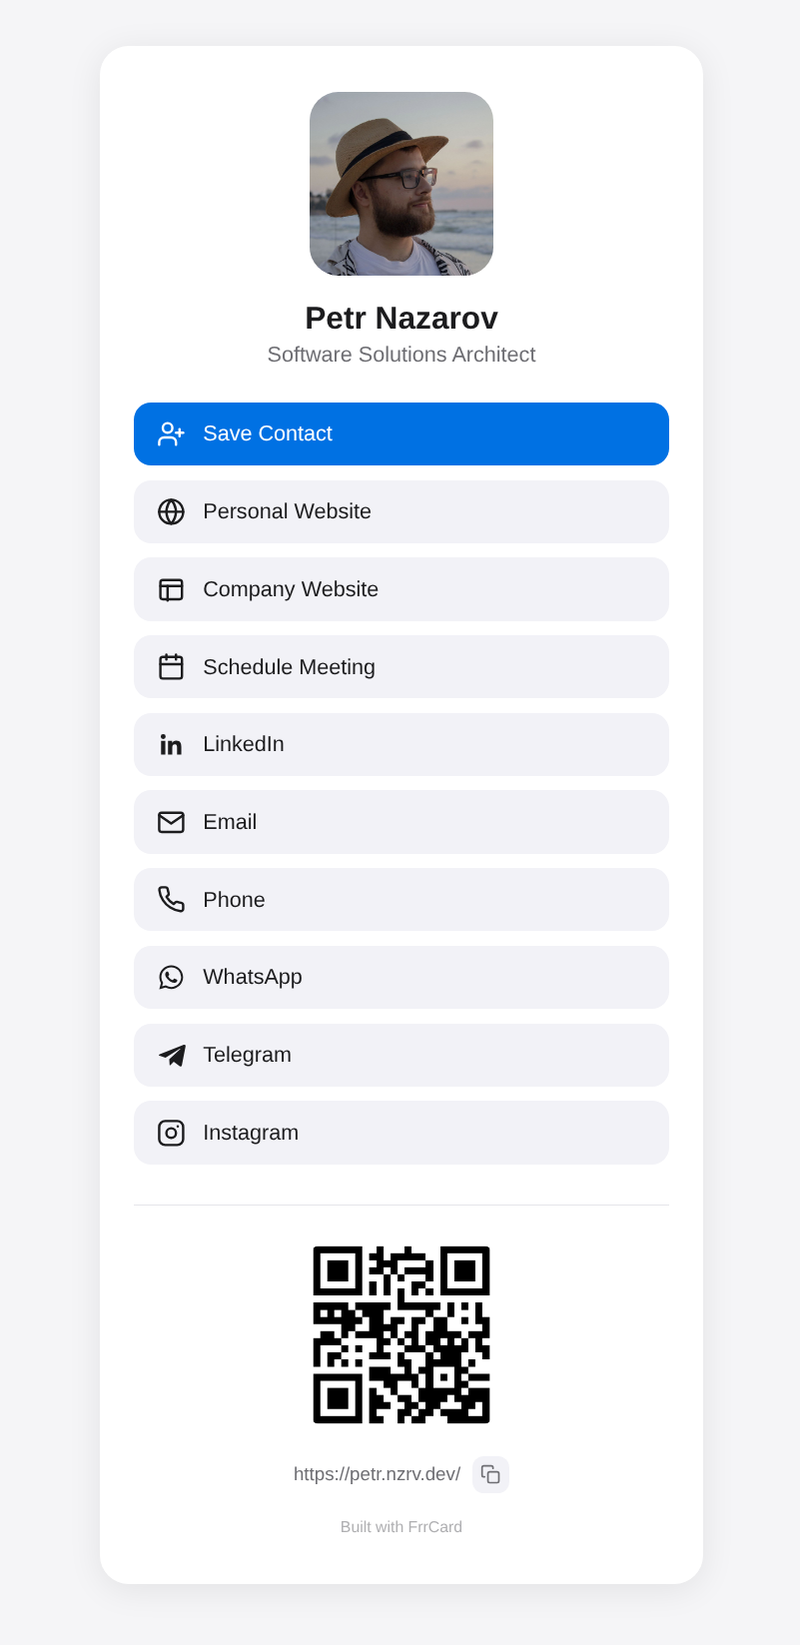
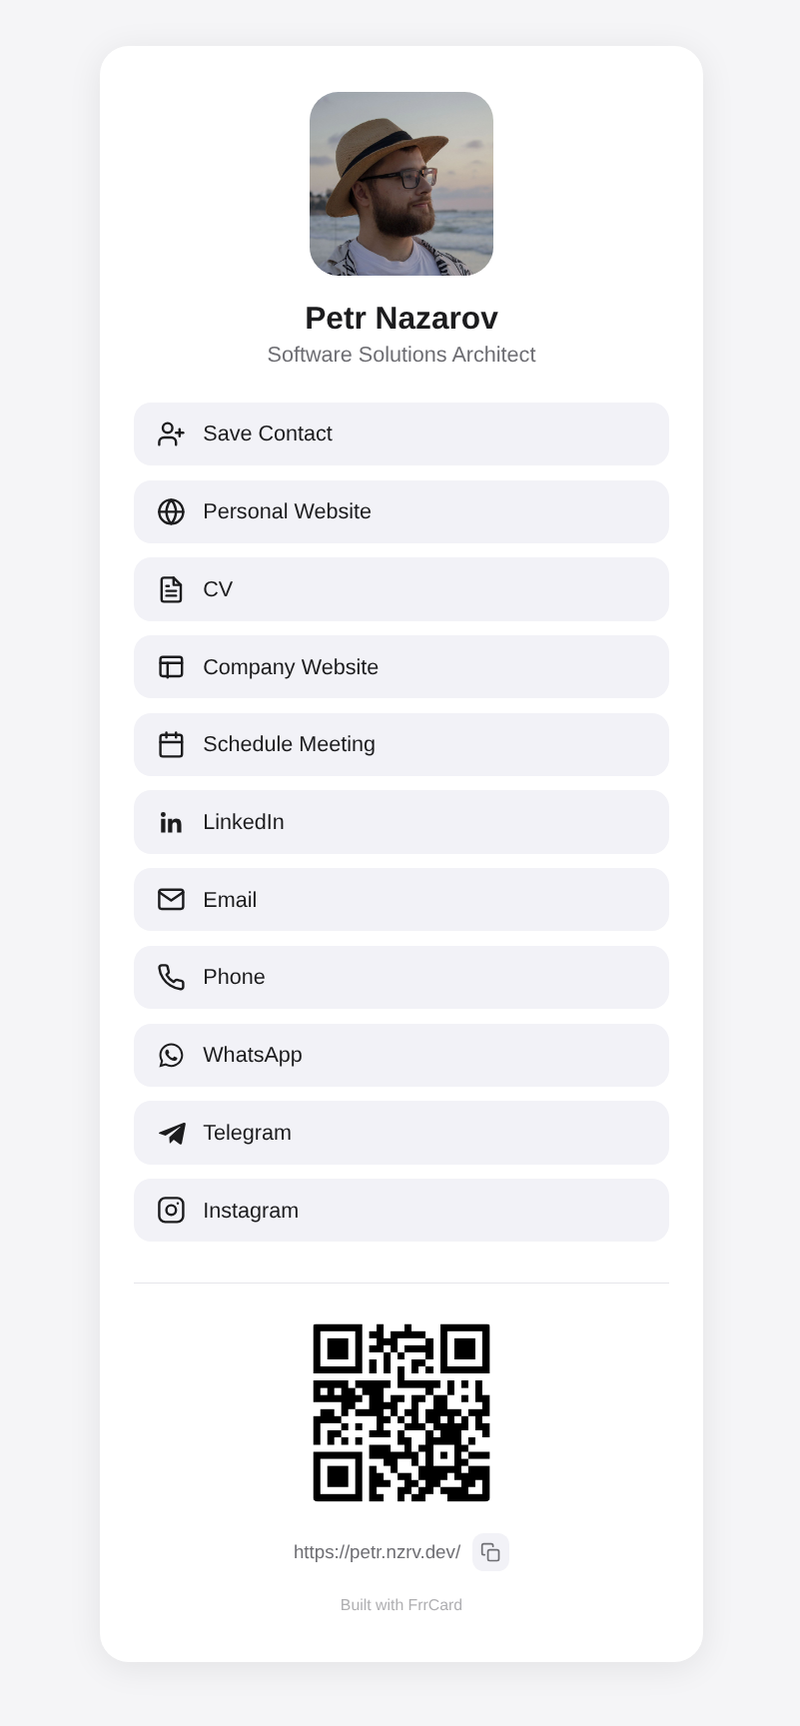
feat(cards): add a cv link type and drop the Save Contact accent
The cv type renders a document icon and becomes a labelled URL in the contact
file, like the other link types. Save Contact now looks like every other row
rather than a filled accent button, so the accent custom properties and the
.link-primary rules are gone with it.

Screenshots refreshed; data/petr.json is not tracked, so its own move to
nzrv.dev rides along only in the deployed output.

Changed region(s): [[0.1562, 0.062, 0.8438, 0.7131], [0.375, 0.7441, 0.625, 0.9301]]

diff --git a/build.js b/build.js
@@ -44,6 +44,13 @@ const ICONS = {
     external: true,
     vcard: (v) => ({ prop: 'URL;TYPE=WORK', value: v }),
   },
+  cv: {
+    label: 'CV',
+    svg: '<svg viewBox="0 0 24 24" fill="none" stroke="currentColor" stroke-width="2" stroke-linecap="round" stroke-linejoin="round"><path d="M14 2H6a2 2 0 0 0-2 2v16a2 2 0 0 0 2 2h12a2 2 0 0 0 2-2V8z"/><polyline points="14 2 14 8 20 8"/><line x1="16" y1="13" x2="8" y2="13"/><line x1="16" y1="17" x2="8" y2="17"/><polyline points="10 9 9 9 8 9"/></svg>',
+    href: (v) => v,
+    external: true,
+    vcard: (v) => ({ prop: 'URL', value: v }),
+  },
   schedule: {
     label: 'Schedule Meeting',
     svg: '<svg viewBox="0 0 24 24" fill="none" stroke="currentColor" stroke-width="2" stroke-linecap="round" stroke-linejoin="round"><rect x="3" y="4" width="18" height="18" rx="2"/><line x1="16" y1="2" x2="16" y2="6"/><line x1="8" y1="2" x2="8" y2="6"/><line x1="3" y1="10" x2="21" y2="10"/></svg>',
@@ -220,7 +227,7 @@ function render(template, data) {
   const qrTarget = data.qrTarget || canonicalUrl;
   const vcardHtml = data.vcard === false
     ? ''
-    : `      <a class="link link-primary" href="./${VCARD_FILE}" type="text/vcard">\n        ${VCARD_ICON}\n        ${escapeHtml(data.vcardLabel || VCARD_LABEL)}\n      </a>\n`;
+    : `      <a class="link" href="./${VCARD_FILE}" type="text/vcard">\n        ${VCARD_ICON}\n        ${escapeHtml(data.vcardLabel || VCARD_LABEL)}\n      </a>\n`;
 
   const replacements = {
     NAME: data.name,

diff --git a/template.html b/template.html
@@ -32,9 +32,6 @@
     --border: #e5e5ea;
     --link-bg: #f2f2f7;
     --link-bg-hover: #e5e5ea;
-    --accent: #0071e3;
-    --accent-hover: #0060c0;
-    --accent-text: #ffffff;
   }
   @media (prefers-color-scheme: dark) {
     :root {
@@ -45,9 +42,6 @@
       --border: #3a3a3c;
       --link-bg: #2c2c2e;
       --link-bg-hover: #3a3a3c;
-      --accent: #0a84ff;
-      --accent-hover: #3b9dff;
-      --accent-text: #ffffff;
     }
   }
 
@@ -119,16 +113,6 @@
   .link:active,
   .link:hover {
     background: var(--link-bg-hover);
-  }
-
-  .link-primary {
-    background: var(--accent);
-    color: var(--accent-text);
-  }
-
-  .link-primary:active,
-  .link-primary:hover {
-    background: var(--accent-hover);
   }
 
   .link svg {

diff --git a/README.md b/README.md
@@ -125,6 +125,7 @@ to turn a bare value into the right kind of href.
 |---|---|---|---|
 | `website` | Personal Website | full URL | the URL |
 | `company` | Company Website | full URL | the URL |
+| `cv` | CV | full URL to a PDF or page | the URL |
 | `schedule` | Schedule Meeting | full URL | the URL (Calendly, Cal.com, …) |
 | `linkedin` | LinkedIn | full profile URL | the URL |
 | `email` | Email | address | `mailto:` |
@@ -142,7 +143,7 @@ file.
 ## The contact file
 
 Alongside `index.html`, each card gets a `dist/<name>/contact.vcf` built from the
-same JSON, and a blue **Save Contact** button at the top of the links that points
+same JSON, and a **Save Contact** button at the top of the links that points
 at it. Tapping it on a phone opens the OS "add contact" sheet with everything
 already filled in — the fastest way to end up in someone's address book after a
 handshake.
@@ -156,7 +157,7 @@ It is vCard 3.0, the dialect iOS Contacts, Android and Outlook all read:
 | `organization` | `ORG` |
 | `email` links | `EMAIL;TYPE=INTERNET` |
 | `phone` links | `TEL;TYPE=CELL,VOICE` |
-| `website`, `company`, `schedule` links | `URL` |
+| `website`, `company`, `cv`, `schedule` links | `URL` |
 | `linkedin`, `whatsapp`, `telegram`, `instagram` links | `X-SOCIALPROFILE` |
 | `photoUrl` | `PHOTO`, base64-embedded |
 | `domain` | `SOURCE` |
